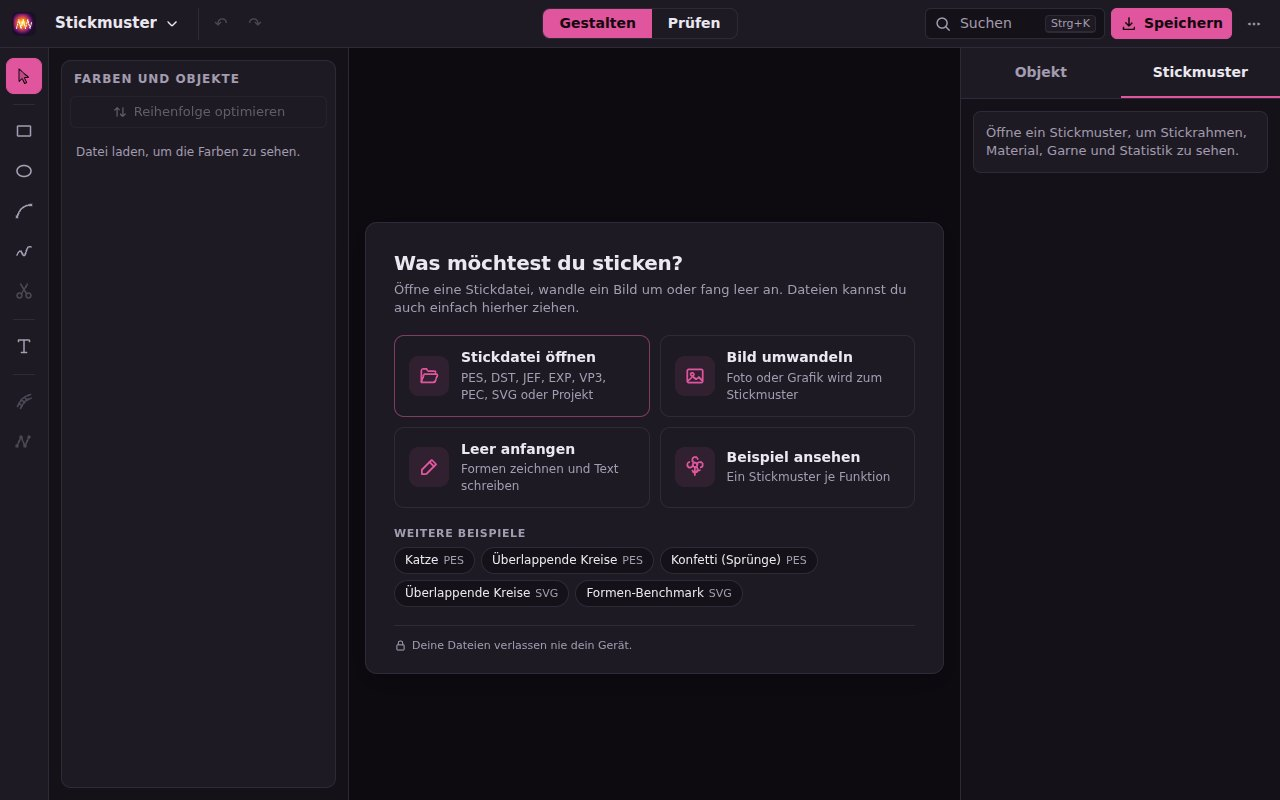
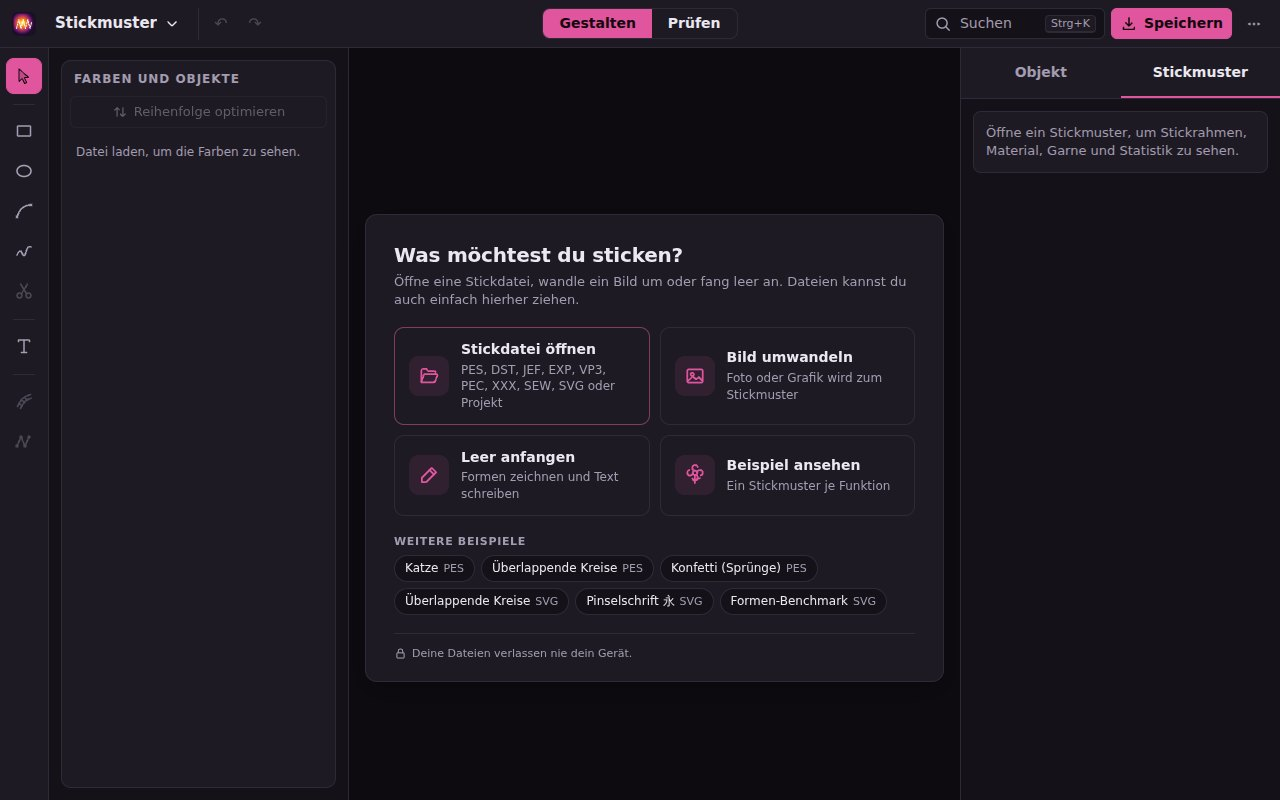
Guide: start page and Save menu with XXX and SEW
The start page now lists XXX and SEW among the file types and shows the
brush character as a further example; the Save menu offers XXX. Both
screenshots are retaken in German and English, and the Save picture
carries its real size so the page does not shift while it loads.

Claude-Session: https://claude.ai/code/session_01379gitMZ3UzT9w36uwz6PC

diff --git a/docs.html b/docs.html
@@ -890,7 +890,7 @@
           <li><b>Zurück zum Original</b> verwirft alle Änderungen an einem geladenen Stickmuster; × im Stickmuster-Menü entfernt es aus dem Browser.</li>
         </ul>
         <figure>
-          <img src="/guide/save-de.jpg" width="291" height="440" loading="lazy" alt="Das Menü Speichern: Stickrahmen, Vor dem Sticken, die Formate für die Maschine, Dateiname, Als Projekt speichern, Als Bild, Farbliste und Stickblatt drucken" />
+          <img src="/guide/save-de.jpg" width="336" height="736" loading="lazy" alt="Das Menü Speichern: Stickrahmen, Vor dem Sticken, die Formate für die Maschine, Dateiname, Als Projekt speichern, Als Bild, Farbliste und Stickblatt drucken" />
           <figcaption>Das Menü <i>Speichern</i>: Stickrahmen und Vlies, das Format für die Maschine, darunter das Projekt, das Bild und die Drucke.</figcaption>
         </figure>
 
@@ -1805,7 +1805,7 @@
           <li><b>Back to the original</b> drops all changes to a loaded design; × in the Designs menu removes it from the browser.</li>
         </ul>
         <figure>
-          <img src="/guide/save-en.jpg" width="291" height="440" loading="lazy" alt="The Save menu: hoop, Before stitching, the formats for the machine, file name, Save as project, As picture, print color list and stitch sheet" />
+          <img src="/guide/save-en.jpg" width="336" height="736" loading="lazy" alt="The Save menu: hoop, Before stitching, the formats for the machine, file name, Save as project, As picture, print color list and stitch sheet" />
           <figcaption>The <i>Save</i> menu: hoop and stabilizer, the format for the machine, below it the project, the picture and the printouts.</figcaption>
         </figure>
 
